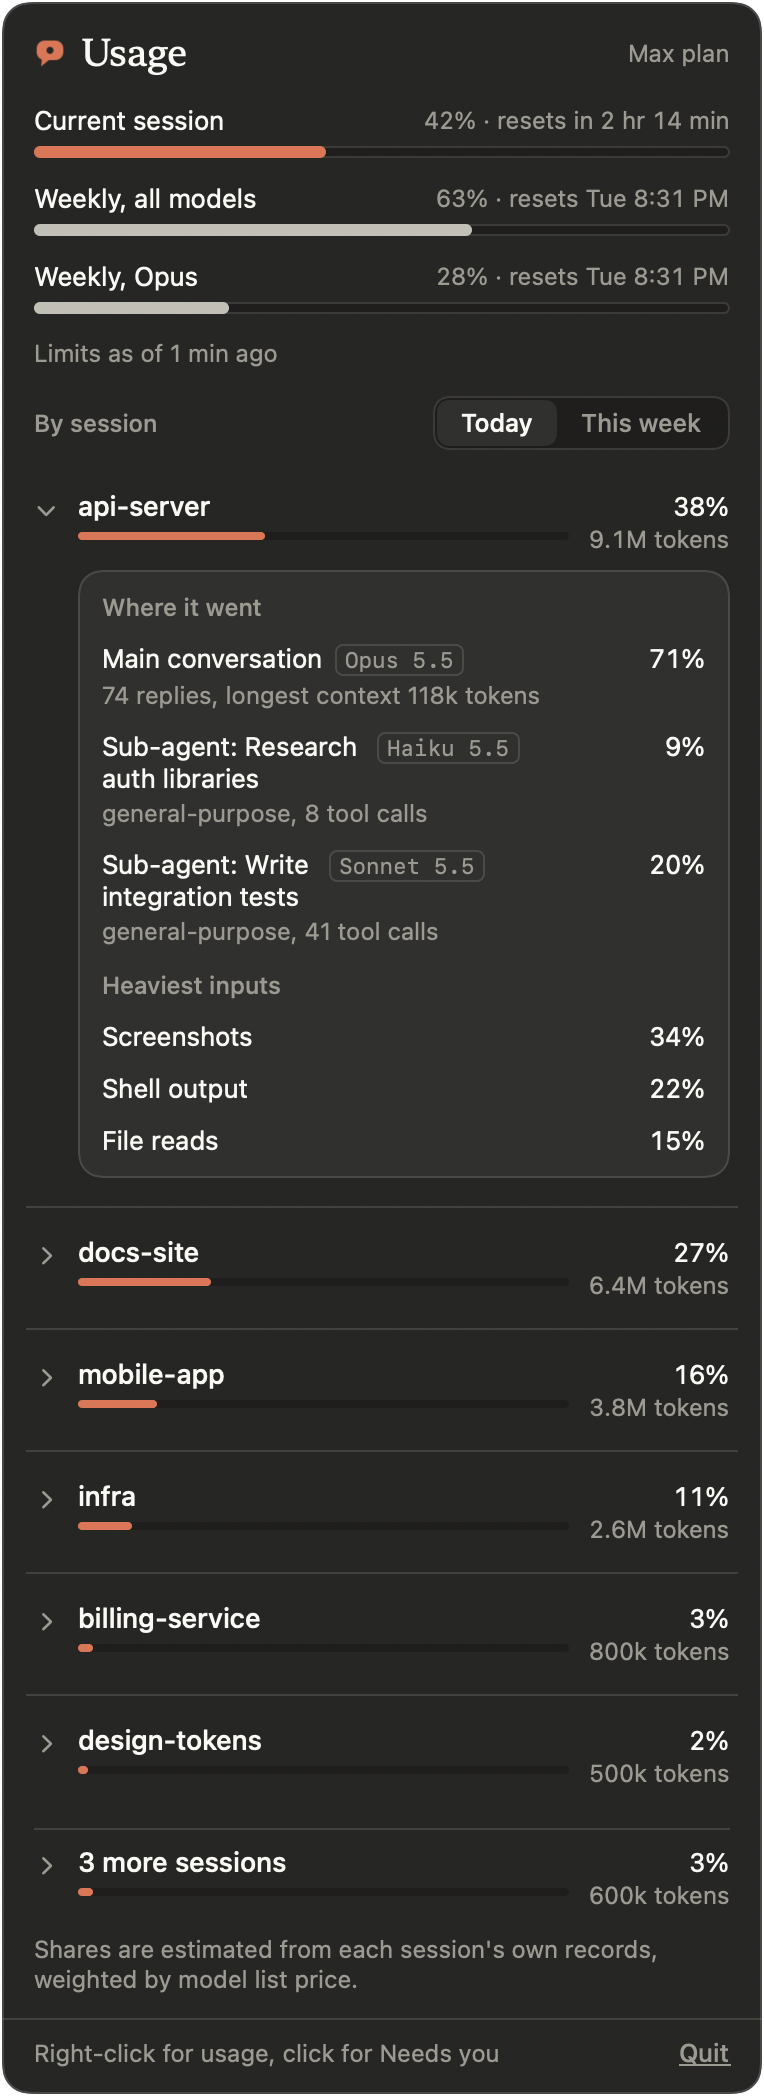
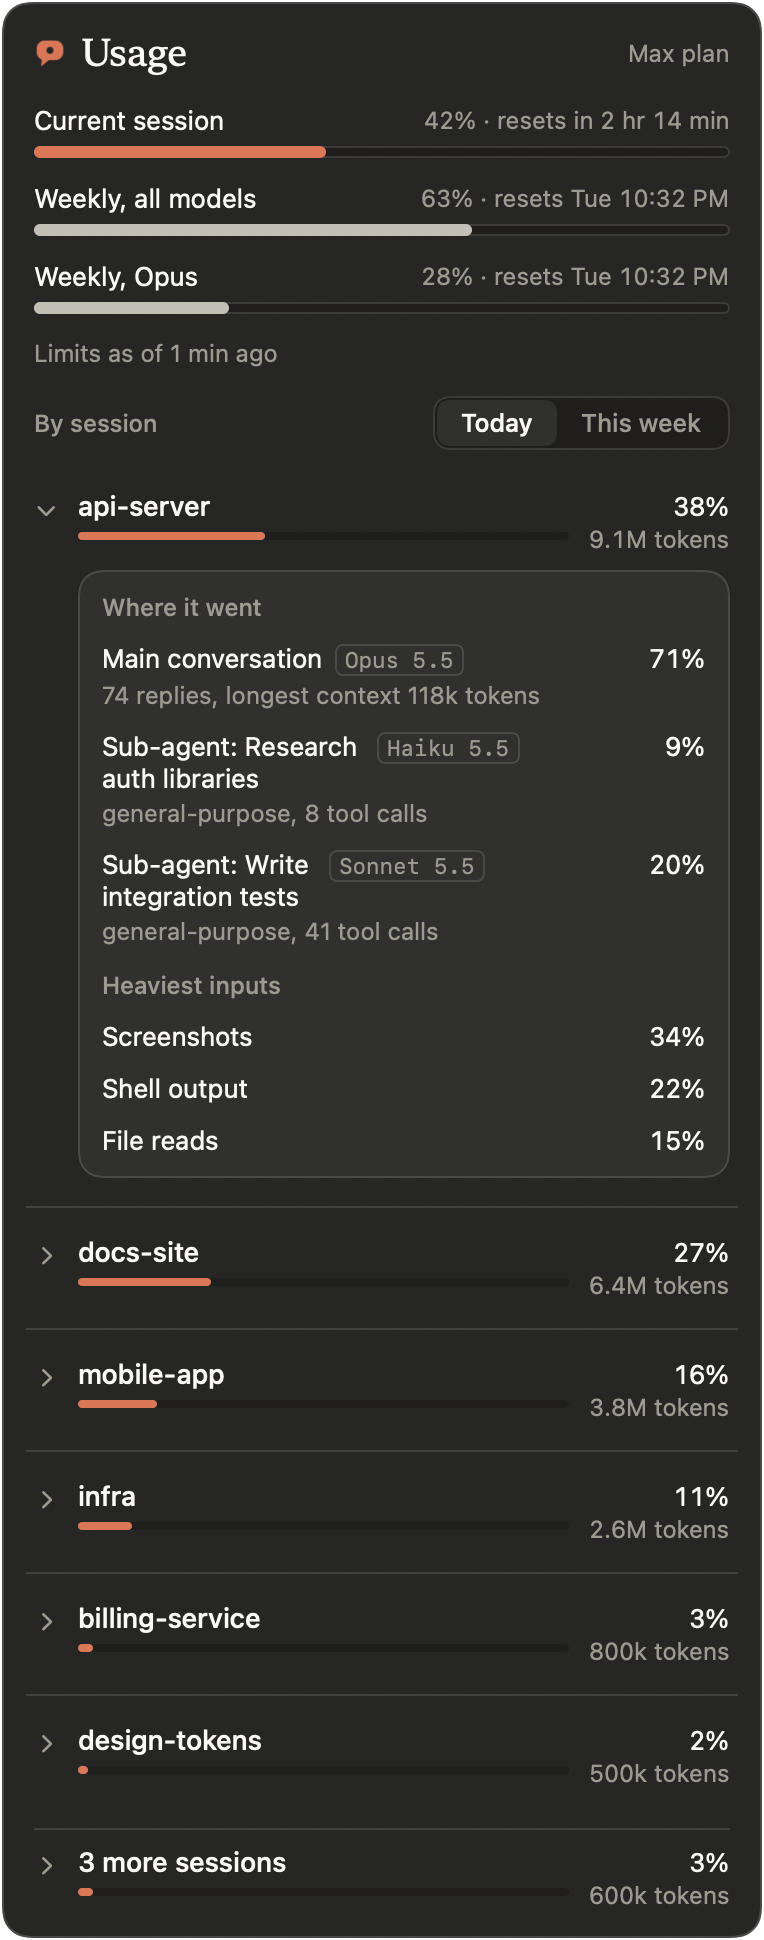
Open the right session, cap expanded replies, drop footer
- Deep links use the desktop app's own session id (local_...); the app
  rejects Claude Code session ids, so clicks on idle rows did nothing
- Show more expands into a fixed-height scroll area and resets on close
- Remove the Quit button, footer and help text

diff --git a/app/Sources/NeedsYou/Components.swift b/app/Sources/NeedsYou/Components.swift
@@ -44,16 +44,27 @@ struct ReplyPreview: View {
     @State private var expanded = false
     var body: some View {
         VStack(alignment: .leading, spacing: 4) {
-            Text(text).foregroundStyle(p.soft).lineLimit(expanded ? 40 : 4)
-                .frame(maxWidth: .infinity, alignment: .leading)
-                .padding(.horizontal, 10).padding(.vertical, 8)
-                .background(RoundedRectangle(cornerRadius: 8).fill(p.codeBg))
-                .textSelection(.enabled)
+            Group {
+                if expanded {
+                    ScrollView(.vertical) { body(text).fixedSize(horizontal: false, vertical: true) }
+                        .frame(height: 200)
+                } else {
+                    body(text).lineLimit(4)
+                }
+            }
+            .background(RoundedRectangle(cornerRadius: 8).fill(p.codeBg))
             if text.count > 220 || text.filter({ $0 == "\n" }).count > 3 {
                 Button(expanded ? "Show less" : "Show more") { expanded.toggle() }
                     .buttonStyle(PillButtonStyle(kind: .link))
             }
         }
+        .onDisappear { expanded = false }
+    }
+
+    private func body(_ s: String) -> some View {
+        Text(s).foregroundStyle(p.soft).textSelection(.enabled)
+            .frame(maxWidth: .infinity, alignment: .leading)
+            .padding(.horizontal, 10).padding(.vertical, 8)
     }
 }
 
@@ -108,23 +119,6 @@ struct PanelHeader: View {
     }
 }
 
-struct PanelFooter: View {
-    @Environment(\.palette) private var p
-    let text: String
-    let onQuit: () -> Void
-    var body: some View {
-        VStack(spacing: 0) {
-            Rectangle().fill(p.line).frame(height: 1)
-            HStack {
-                Text(text).foregroundStyle(p.muted)
-                Spacer()
-                Button("Quit", action: onQuit).buttonStyle(PillButtonStyle(kind: .link)).accessibilityLabel("Quit Needs You")
-            }
-            .font(Fonts.small)
-            .padding(.horizontal, 16).padding(.top, 4).padding(.bottom, 8)
-        }
-    }
-}
 
 /// Scrolls only when the content would exceed `maxHeight`.
 struct FitOrScroll<Content: View>: View {
@@ -146,11 +140,12 @@ struct FitOrScroll<Content: View>: View {
 
 enum Opener {
     static let desktopBundleId = "com.anthropic.claudefordesktop"
-    /// Opens one Code session in the Claude desktop app (the app's own claude://code/continue link).
-    static func open(sessionId: String) {
-        let q = sessionId.addingPercentEncoding(withAllowedCharacters: .urlQueryAllowed) ?? sessionId
-        if let url = URL(string: "claude://code/continue?session=\(q)&source=needs_you"), NSWorkspace.shared.open(url) { return }
-        openClaudeDesktop()
+    /// Opens one Code session in the Claude desktop app with the app's own claude://code/continue
+    /// link. The app only accepts its own session ids (local_...), not Claude Code's session ids.
+    static func open(hostSessionId: String?) {
+        guard let id = hostSessionId,
+              let url = URL(string: "claude://code/continue?session=\(id)&source=needs_you") else { return openClaudeDesktop() }
+        NSWorkspace.shared.open(url)
     }
 
     static func openClaudeDesktop() {

diff --git a/app/Sources/NeedsYou/NeedsPanel.swift b/app/Sources/NeedsYou/NeedsPanel.swift
@@ -3,13 +3,11 @@ import SwiftUI
 struct NeedsPanelView: View {
     @ObservedObject var store: NeedsStore
     var scrollable = true
-    var onQuit: () -> Void = {}
     @Environment(\.palette) private var p
 
     var body: some View {
         VStack(spacing: 0) {
             FitOrScroll(scrollable: scrollable) { content }
-            PanelFooter(text: "Answers go straight to the session", onQuit: onQuit)
         }
         .frame(width: 380)
         .fixedSize(horizontal: false, vertical: true)
@@ -123,7 +121,6 @@ struct NeedsPanelView: View {
         Card {
             VStack(alignment: .leading, spacing: 8) {
                 nameRow(w.name, w.since)
-                Text("Finished. Its last message:").foregroundStyle(p.muted).font(Fonts.small)
                 if let t = w.preview { ReplyPreview(text: t) } else {
                     Text("Finished and is waiting for your next message").foregroundStyle(p.soft)
                 }
@@ -134,7 +131,7 @@ struct NeedsPanelView: View {
 
     @ViewBuilder
     private func openLink(_ name: String, _ sessionId: String, prominent: Bool = false) -> some View {
-        Button(prominent ? "Reply in session" : "Open session") { Opener.open(sessionId: sessionId) }
+        Button(prominent ? "Reply in session" : "Open session") { Opener.open(hostSessionId: store.openIds[sessionId]) }
             .buttonStyle(PillButtonStyle(kind: prominent ? .solid : .link))
             .accessibilityLabel("Open session \(name)")
     }
@@ -142,10 +139,9 @@ struct NeedsPanelView: View {
     /// Wraps a row so clicking anywhere on it opens the session (desktop sessions only).
     @ViewBuilder
     private func openable<V: View>(_ id: String, _ row: V) -> some View {
-        if store.desktop.contains(id) || store.demo {
-            Button { Opener.open(sessionId: id) } label: { row }
+        if store.openIds[id] != nil || store.demo {
+            Button { Opener.open(hostSessionId: store.openIds[id]) } label: { row }
                 .buttonStyle(RowButtonStyle())
-                .help("Open this session in Claude")
         } else {
             row
         }

diff --git a/app/Sources/NeedsYou/NeedsStore.swift b/app/Sources/NeedsYou/NeedsStore.swift
@@ -47,8 +47,8 @@ final class NeedsStore: ObservableObject {
     @Published var idle: [RunningRow] = []
     @Published var done: [DoneRow] = []
     @Published var openCount = 0
-    /// Sessions running in the Claude desktop app, which can be opened by deep link.
-    @Published var desktop = Set<String>()
+    /// Session id -> the desktop app's own id, for sessions that can be opened by deep link.
+    @Published var openIds: [String: String] = [:]
 
     var attention: Attention {
         if !permissions.isEmpty { return .permission }
@@ -110,7 +110,7 @@ final class NeedsStore: ObservableObject {
             SessionDirectory.resolveName(sessionId: sid, cwd: cwd ?? bySession[sid]?.cwd, sessionName: bySession[sid]?.name,
                                          projectDir: SessionDirectory.projectDir(sessionId: sid, transcriptPath: transcript))
         }
-        func desktop(_ sid: String) -> Bool { bySession[sid]?.entrypoint == "claude-desktop" }
+        func desktop(_ sid: String) -> Bool { bySession[sid]?.hostSessionId != nil }
 
         // Pending permission prompts. A dead hook pid means the prompt was answered elsewhere.
         var perms: [PermissionCard] = []
@@ -186,7 +186,7 @@ final class NeedsStore: ObservableObject {
         idle = idles
         done = Array(dones)
         openCount = live.count
-        self.desktop = Set(live.filter { $0.entrypoint == "claude-desktop" }.map(\.sessionId))
+        openIds = Dictionary(live.compactMap { s in s.hostSessionId.map { (s.sessionId, $0) } }, uniquingKeysWith: { a, _ in a })
     }
 
     // MARK: Parsing

diff --git a/app/Sources/NeedsYou/UsagePanel.swift b/app/Sources/NeedsYou/UsagePanel.swift
@@ -3,13 +3,11 @@ import SwiftUI
 struct UsagePanelView: View {
     @ObservedObject var store: UsageStore
     var scrollable = true
-    var onQuit: () -> Void = {}
     @Environment(\.palette) private var p
 
     var body: some View {
         VStack(spacing: 0) {
             FitOrScroll(scrollable: scrollable, maxHeight: 560) { content }
-            PanelFooter(text: "Right-click for usage, click for Needs you", onQuit: onQuit)
         }
         .frame(width: 380)
         .fixedSize(horizontal: false, vertical: true)
@@ -20,9 +18,7 @@ struct UsagePanelView: View {
             PanelHeader(title: "Usage", trailing: store.limits?.plan)
             limits
             sessionsSection
-            Text("Shares are estimated from each session's own records, weighted by model list price.")
-                .font(Fonts.small).foregroundStyle(p.muted)
-                .padding(.horizontal, 16).padding(.top, 6).padding(.bottom, 12)
+                .padding(.bottom, 8)
         }
         .font(Fonts.body)
     }

diff --git a/app/Sources/NeedsYou/SessionDirectory.swift b/app/Sources/NeedsYou/SessionDirectory.swift
@@ -7,6 +7,8 @@ struct LiveSession {
     let name: String?
     let status: String
     let entrypoint: String?
+    /// The desktop app's id for this session (local_...), which its claude://code links require.
+    let hostSessionId: String?
     let updatedAt: Date
     let statusUpdatedAt: Date?
 }
@@ -28,6 +30,7 @@ enum SessionDirectory {
             out.append(LiveSession(
                 pid: pid, sessionId: sid, cwd: j["cwd"] as? String ?? "", name: j["name"] as? String,
                 status: j["status"] as? String ?? "", entrypoint: j["entrypoint"] as? String,
+                hostSessionId: j["hostSessionId"] as? String,
                 updatedAt: Date(timeIntervalSince1970: epochSeconds(j["updatedAt"]) ?? 0),
                 statusUpdatedAt: epochSeconds(j["statusUpdatedAt"]).map { Date(timeIntervalSince1970: $0) }))
         }

diff --git a/app/Sources/NeedsYou/AppDelegate.swift b/app/Sources/NeedsYou/AppDelegate.swift
@@ -43,8 +43,8 @@ final class AppDelegate: NSObject, NSApplicationDelegate {
                 dot.leadingAnchor.constraint(equalTo: b.leadingAnchor, constant: icon.size.width - 1),
             ])
         }
-        needsPopover = makePopover(NeedsPanelView(store: needs, onQuit: { NSApp.terminate(nil) }))
-        usagePopover = makePopover(UsagePanelView(store: usage, onQuit: { NSApp.terminate(nil) }))
+        needsPopover = makePopover(NeedsPanelView(store: needs))
+        usagePopover = makePopover(UsagePanelView(store: usage))
 
         needs.refresh()
         updateTitle()

diff --git a/README.md b/README.md
@@ -89,12 +89,16 @@ python3 scripts/install.py --uninstall
 ```
 
 This removes only what the installer added and restores your previous status line. Then quit
-the app and delete it.
+the app (it has no Quit button, to keep the menu clean) and delete it:
+
+```bash
+osascript -e 'quit app "Needs You"' && rm -rf ~/Applications/"Needs You.app"
+```
 
 ## Notes and limits
 
-- Opening a session uses the Claude desktop app's own `claude://code/continue` link, so it works
-  for desktop sessions. Terminal sessions are listed but can't be opened from the menu.
+- Opening a session uses the Claude desktop app's own `claude://code/continue?session=local_…`
+  link, with the app's own session id, so it works for desktop sessions. Terminal sessions are listed but can't be opened from the menu.
 - Usage shares are estimates from local transcripts. Your actual plan usage is the limits bar
   at the top of the Usage panel.
 - Claude Code's session files are an internal format. If a Claude Code update changes them,
